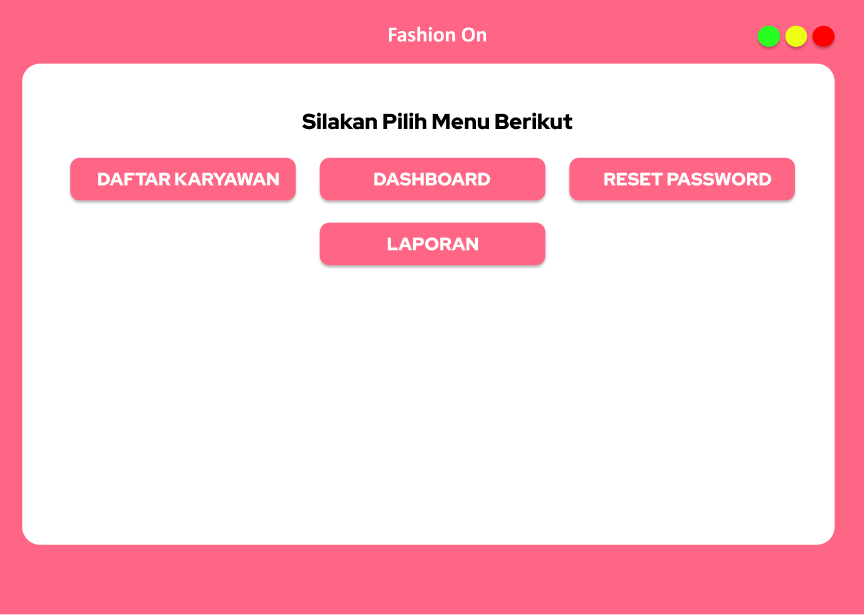
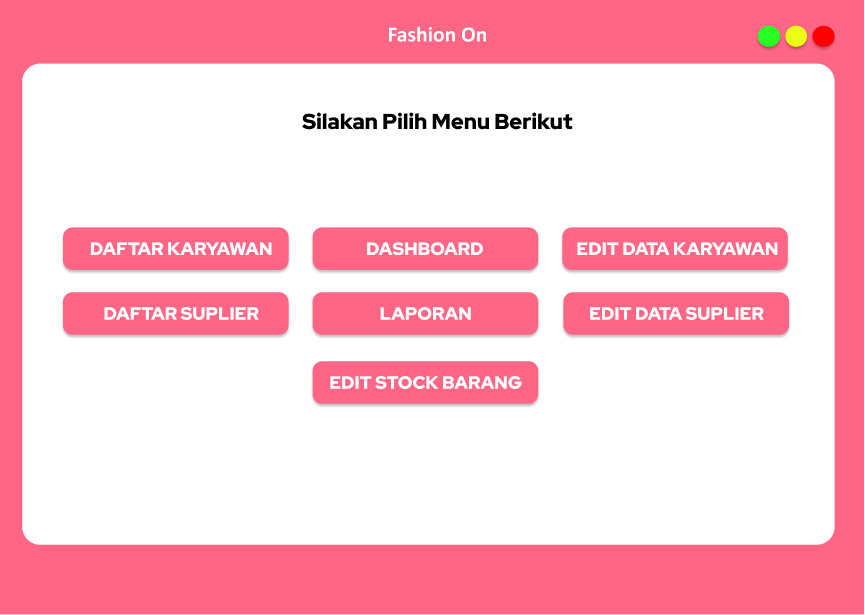
fix bug & update feature
changelog 20/04/2022
 1.fixed bug
 2.CRUD employee,supplier added
 3.Redesign frame
 4.additional changes design

Changed region(s): [[0.0624, 0.2472, 0.9364, 0.5561], [0.3434, 0.587, 0.6243, 0.6797]]

diff --git a/src/efashion/FrameOwner.java b/src/efashion/FrameOwner.java
@@ -33,8 +33,11 @@ public class FrameOwner extends javax.swing.JFrame {
     private void initComponents() {
 
         btn_reset = new javax.swing.JButton();
-        btn_daftarkaryawan = new javax.swing.JButton();
+        btn_editdatasupplier = new javax.swing.JButton();
         btn_dashboard = new javax.swing.JButton();
+        btn_daftarkaryawan1 = new javax.swing.JButton();
+        btn_editstock = new javax.swing.JButton();
+        btn_daftarsupplier1 = new javax.swing.JButton();
         jLabel1 = new javax.swing.JLabel();
 
         setDefaultCloseOperation(javax.swing.WindowConstants.EXIT_ON_CLOSE);
@@ -43,19 +46,24 @@ public class FrameOwner extends javax.swing.JFrame {
         btn_reset.setBackground(new java.awt.Color(255, 101, 132));
         btn_reset.setFont(new java.awt.Font("Segoe UI", 1, 12)); // NOI18N
         btn_reset.setForeground(new java.awt.Color(255, 255, 255));
-        btn_reset.setText("RESET PASSWORD");
-        getContentPane().add(btn_reset, new org.netbeans.lib.awtextra.AbsoluteConstraints(570, 150, 230, 60));
-
-        btn_daftarkaryawan.setBackground(new java.awt.Color(255, 101, 132));
-        btn_daftarkaryawan.setFont(new java.awt.Font("Segoe UI", 1, 12)); // NOI18N
-        btn_daftarkaryawan.setForeground(new java.awt.Color(255, 255, 255));
-        btn_daftarkaryawan.setText("DAFTAR KARYAWAN");
-        btn_daftarkaryawan.addActionListener(new java.awt.event.ActionListener() {
+        btn_reset.setText("EDIT DATA KARYAWAN");
+        btn_reset.addActionListener(new java.awt.event.ActionListener() {
             public void actionPerformed(java.awt.event.ActionEvent evt) {
-                btn_daftarkaryawanActionPerformed(evt);
+                btn_resetActionPerformed(evt);
             }
         });
-        getContentPane().add(btn_daftarkaryawan, new org.netbeans.lib.awtextra.AbsoluteConstraints(70, 150, 230, 60));
+        getContentPane().add(btn_reset, new org.netbeans.lib.awtextra.AbsoluteConstraints(560, 220, 230, 60));
+
+        btn_editdatasupplier.setBackground(new java.awt.Color(255, 101, 132));
+        btn_editdatasupplier.setFont(new java.awt.Font("Segoe UI", 1, 12)); // NOI18N
+        btn_editdatasupplier.setForeground(new java.awt.Color(255, 255, 255));
+        btn_editdatasupplier.setText("EDIT DATA SUPPLIER");
+        btn_editdatasupplier.addActionListener(new java.awt.event.ActionListener() {
+            public void actionPerformed(java.awt.event.ActionEvent evt) {
+                btn_editdatasupplierActionPerformed(evt);
+            }
+        });
+        getContentPane().add(btn_editdatasupplier, new org.netbeans.lib.awtextra.AbsoluteConstraints(560, 290, 230, 60));
 
         btn_dashboard.setBackground(new java.awt.Color(255, 101, 132));
         btn_dashboard.setFont(new java.awt.Font("Segoe UI", 1, 12)); // NOI18N
@@ -66,7 +74,40 @@ public class FrameOwner extends javax.swing.JFrame {
                 btn_dashboardActionPerformed(evt);
             }
         });
-        getContentPane().add(btn_dashboard, new org.netbeans.lib.awtextra.AbsoluteConstraints(320, 150, 230, 60));
+        getContentPane().add(btn_dashboard, new org.netbeans.lib.awtextra.AbsoluteConstraints(310, 220, 230, 60));
+
+        btn_daftarkaryawan1.setBackground(new java.awt.Color(255, 101, 132));
+        btn_daftarkaryawan1.setFont(new java.awt.Font("Segoe UI", 1, 12)); // NOI18N
+        btn_daftarkaryawan1.setForeground(new java.awt.Color(255, 255, 255));
+        btn_daftarkaryawan1.setText("DAFTAR KARYAWAN");
+        btn_daftarkaryawan1.addActionListener(new java.awt.event.ActionListener() {
+            public void actionPerformed(java.awt.event.ActionEvent evt) {
+                btn_daftarkaryawan1ActionPerformed(evt);
+            }
+        });
+        getContentPane().add(btn_daftarkaryawan1, new org.netbeans.lib.awtextra.AbsoluteConstraints(60, 220, 230, 60));
+
+        btn_editstock.setBackground(new java.awt.Color(255, 101, 132));
+        btn_editstock.setFont(new java.awt.Font("Segoe UI", 1, 12)); // NOI18N
+        btn_editstock.setForeground(new java.awt.Color(255, 255, 255));
+        btn_editstock.setText("EDIT STOCK BARANG");
+        btn_editstock.addActionListener(new java.awt.event.ActionListener() {
+            public void actionPerformed(java.awt.event.ActionEvent evt) {
+                btn_editstockActionPerformed(evt);
+            }
+        });
+        getContentPane().add(btn_editstock, new org.netbeans.lib.awtextra.AbsoluteConstraints(310, 360, 230, 60));
+
+        btn_daftarsupplier1.setBackground(new java.awt.Color(255, 101, 132));
+        btn_daftarsupplier1.setFont(new java.awt.Font("Segoe UI", 1, 12)); // NOI18N
+        btn_daftarsupplier1.setForeground(new java.awt.Color(255, 255, 255));
+        btn_daftarsupplier1.setText("DAFTAR SUPPLIER");
+        btn_daftarsupplier1.addActionListener(new java.awt.event.ActionListener() {
+            public void actionPerformed(java.awt.event.ActionEvent evt) {
+                btn_daftarsupplier1ActionPerformed(evt);
+            }
+        });
+        getContentPane().add(btn_daftarsupplier1, new org.netbeans.lib.awtextra.AbsoluteConstraints(60, 290, 230, 60));
 
         jLabel1.setIcon(new javax.swing.ImageIcon(getClass().getResource("/efashion/src/formowner.png"))); // NOI18N
         jLabel1.setText("jLabel1");
@@ -79,18 +120,48 @@ public class FrameOwner extends javax.swing.JFrame {
         // TODO add your handling code here:
     }//GEN-LAST:event_btn_dashboardActionPerformed
 
-
-    
-
-    private void btn_daftarkaryawanActionPerformed(java.awt.event.ActionEvent evt) {//GEN-FIRST:event_btn_daftarkaryawanActionPerformed
+    private void btn_editdatasupplierActionPerformed(java.awt.event.ActionEvent evt) {//GEN-FIRST:event_btn_editdatasupplierActionPerformed
         try {
             this.setVisible(false);
-            new regist_karyawan().setVisible(true);
-            
+            new efashion.featureadmin.editdelete_supplier().setVisible(true);
         } catch (SQLException ex) {
             Logger.getLogger(FrameOwner.class.getName()).log(Level.SEVERE, null, ex);
         }
-    }//GEN-LAST:event_btn_daftarkaryawanActionPerformed
+    }//GEN-LAST:event_btn_editdatasupplierActionPerformed
+
+    private void btn_resetActionPerformed(java.awt.event.ActionEvent evt) {//GEN-FIRST:event_btn_resetActionPerformed
+        try {
+            // TODO add your handling code here:
+            new efashion.featureadmin.editdelete_karyawan().setVisible(true);
+            this.setVisible(false);
+        } catch (SQLException ex) {
+            Logger.getLogger(FrameOwner.class.getName()).log(Level.SEVERE, null, ex);
+        }
+        
+    }//GEN-LAST:event_btn_resetActionPerformed
+
+    private void btn_daftarkaryawan1ActionPerformed(java.awt.event.ActionEvent evt) {//GEN-FIRST:event_btn_daftarkaryawan1ActionPerformed
+        // TODO add your handling code here:   
+       this.setVisible(false);
+        try {
+            new efashion.featureadmin.regist_karyawan().setVisible(true);
+        } catch (SQLException ex) {
+            Logger.getLogger(FrameOwner.class.getName()).log(Level.SEVERE, null, ex);
+        }
+    }//GEN-LAST:event_btn_daftarkaryawan1ActionPerformed
+
+    private void btn_editstockActionPerformed(java.awt.event.ActionEvent evt) {//GEN-FIRST:event_btn_editstockActionPerformed
+        this.setVisible(false);
+        //stock frame
+// TODO add your handling code here:
+    }//GEN-LAST:event_btn_editstockActionPerformed
+
+    private void btn_daftarsupplier1ActionPerformed(java.awt.event.ActionEvent evt) {//GEN-FIRST:event_btn_daftarsupplier1ActionPerformed
+        // TODO add your handling code here
+        this.setVisible(false);
+       new efashion.featureadmin.regist_supplier().setVisible(true);
+       
+    }//GEN-LAST:event_btn_daftarsupplier1ActionPerformed
 
     private void delete(String query,String query2) throws SQLException{
         java.sql.Connection con = (Connection) koneksi.getConDB();
@@ -138,8 +209,11 @@ public class FrameOwner extends javax.swing.JFrame {
     }
 
     // Variables declaration - do not modify//GEN-BEGIN:variables
-    private javax.swing.JButton btn_daftarkaryawan;
+    private javax.swing.JButton btn_daftarkaryawan1;
+    private javax.swing.JButton btn_daftarsupplier1;
     private javax.swing.JButton btn_dashboard;
+    private javax.swing.JButton btn_editdatasupplier;
+    private javax.swing.JButton btn_editstock;
     private javax.swing.JButton btn_reset;
     private javax.swing.JLabel jLabel1;
     // End of variables declaration//GEN-END:variables
